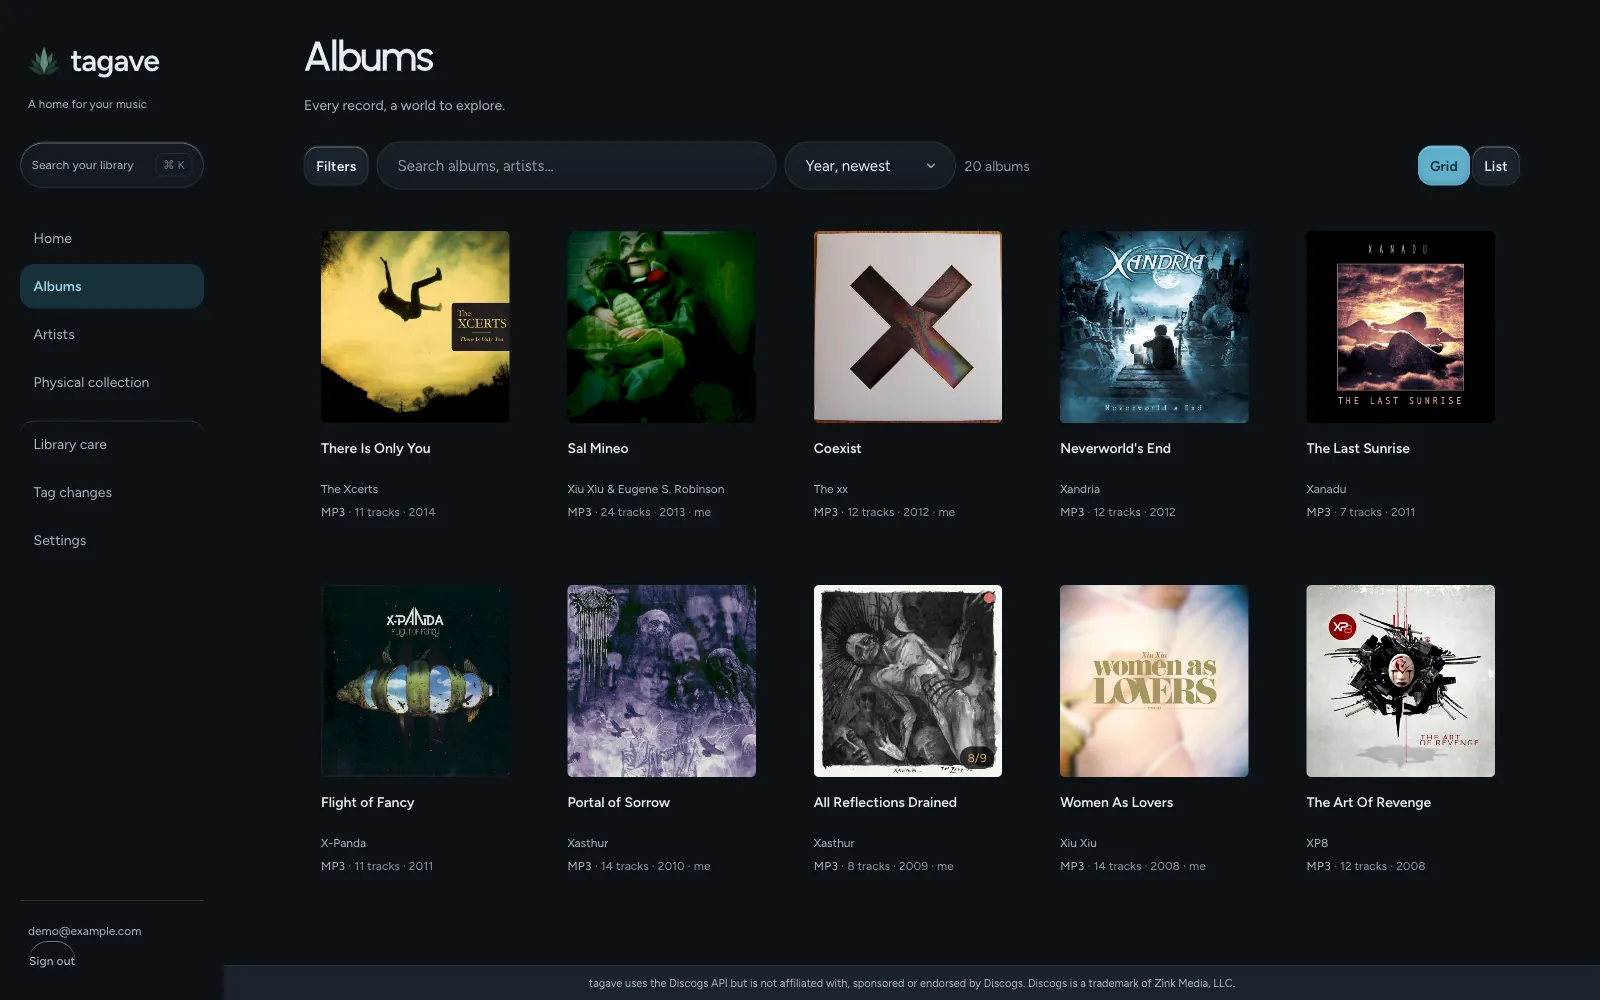
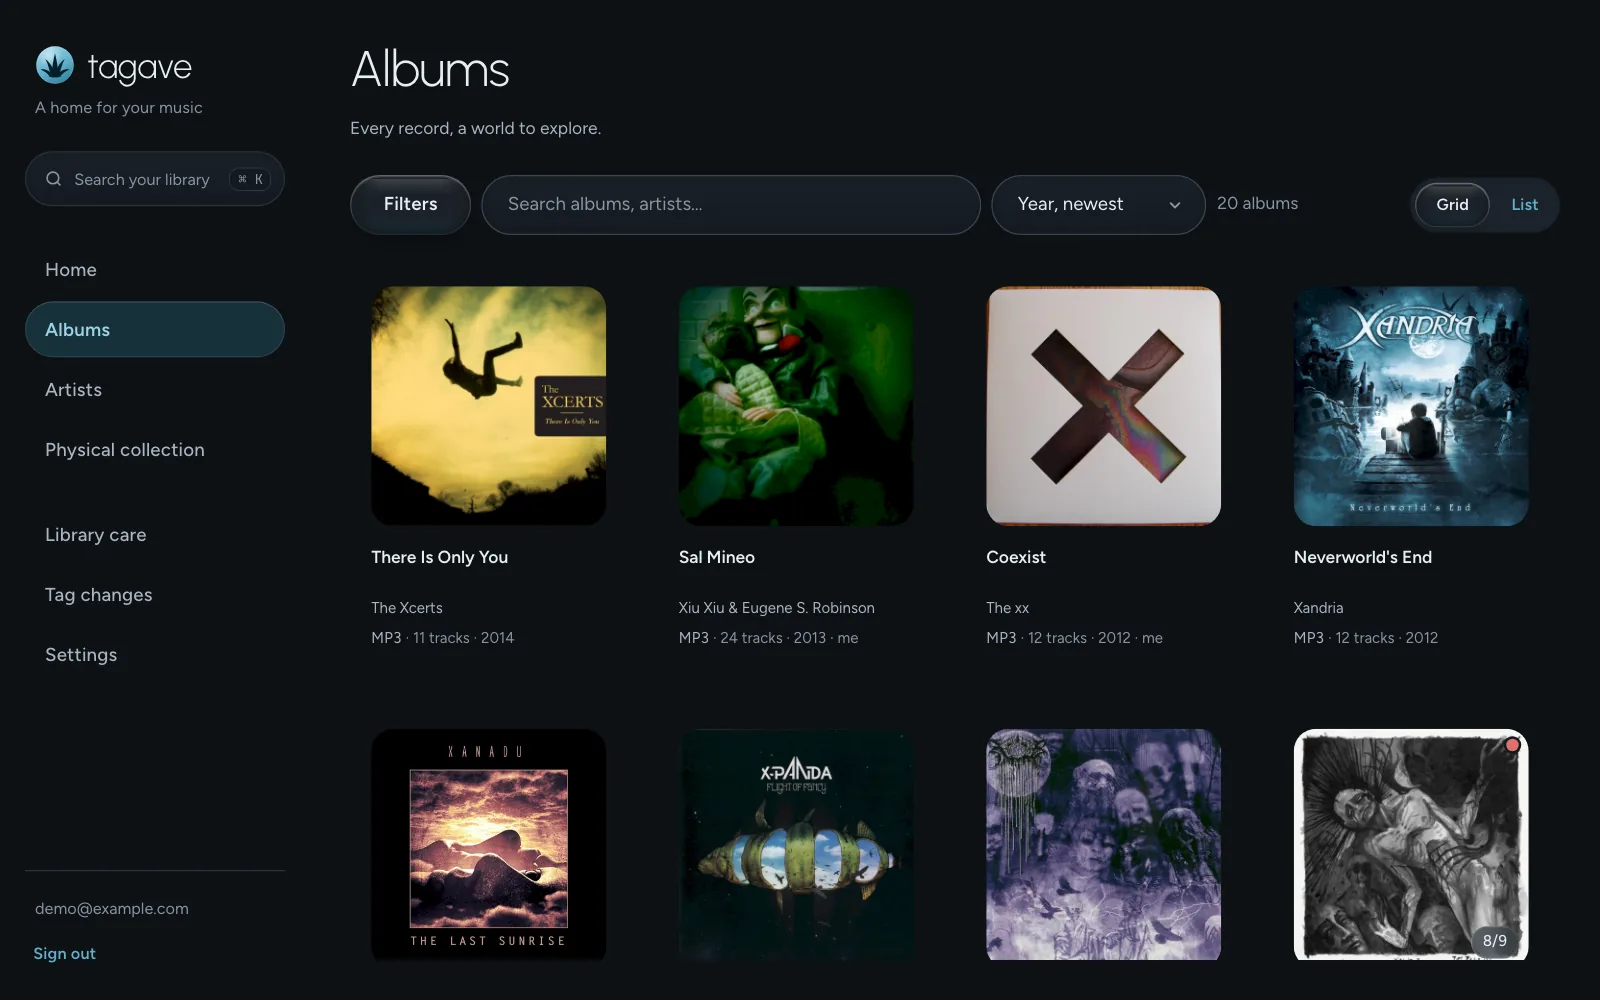
feat(site): new mark, whole install command, large zoomable screenshots
Screenshots retaken from the restyled app (albums, compilation, tag plan,
library care), light and dark, 800/1600.

diff --git a/site/index.html b/site/index.html
@@ -21,6 +21,7 @@
 <meta property="og:image:alt" content="tagave: your library, quietly in order.">
 <meta name="twitter:card" content="summary_large_image">
 
+<link rel="icon" type="image/svg+xml" href="img/mark.svg">
 <link rel="icon" type="image/png" sizes="48x48" href="img/favicon-48.png">
 <link rel="apple-touch-icon" href="img/apple-touch-icon.png">
 
@@ -139,9 +140,8 @@ p code,li code{font-size:.9em;padding:1px 6px;border-radius:6px;background:var(-
 /* ============ nav ============ */
 .nav{display:flex;align-items:center;justify-content:space-between;gap:16px;padding:28px 0}
 .brand{display:flex;align-items:center;gap:10px;font:300 22px/1 var(--font-display);letter-spacing:.02em;color:var(--ink);text-decoration:none}
-.drop{width:18px;height:18px;border-radius:50%;flex:none;
-  background:radial-gradient(circle at 35% 30%, var(--spec) 0 18%, transparent 40%),linear-gradient(160deg,var(--dew-hi),var(--dew-lo));
-  box-shadow:0 2px 6px -2px rgba(var(--shadow-tint),.45)}
+/* the mark: an agave rosette in a dew-glass orb (same drawing as the app and favicon) */
+.mark{width:26px;height:26px;flex:none;filter:drop-shadow(0 2px 4px rgba(var(--shadow-tint),.28))}
 .navlinks{display:flex;gap:28px;align-items:center}
 .navlinks a{color:var(--ink-2);text-decoration:none;font-size:15px}
 .navlinks a:hover{color:var(--ink)}
@@ -170,18 +170,18 @@ p code,li code{font-size:.9em;padding:1px 6px;border-radius:6px;background:var(-
   transition:transform var(--dur) var(--ease-spring),box-shadow 200ms ease,filter 200ms ease;
   -webkit-tap-highlight-color:transparent;
 }
+/* Specular sheen: a soft band that fades out by 30% of the height, above the cap line, so every
+   glyph pixel of the label sits on the body colour (4.5:1 or better). No discrete glint: a small
+   white dot at the top-left read as a rendering bug. */
 .btn::before{
-  content:"";position:absolute;z-index:-1;left:10%;right:10%;top:3px;height:46%;
+  content:"";position:absolute;z-index:-1;left:4%;right:4%;top:2px;height:30%;
   border-radius:var(--r-pill);pointer-events:none;
-  background:linear-gradient(180deg,rgba(255,255,255,var(--b-sheen)),rgba(255,255,255,.04));
+  background:linear-gradient(180deg,rgba(255,255,255,var(--b-sheen)) 0%,rgba(255,255,255,calc(var(--b-sheen)*.35)) 55%,rgba(255,255,255,0) 100%);
+  -webkit-mask-image:linear-gradient(90deg,transparent,#000 22%,#000 78%,transparent);
+  mask-image:linear-gradient(90deg,transparent,#000 22%,#000 78%,transparent);
   transition:opacity 200ms ease;
 }
-.btn::after{
-  content:"";position:absolute;z-index:-1;left:18%;top:7px;width:10px;height:5px;
-  border-radius:50%;background:rgba(255,255,255,.8);filter:blur(.5px);pointer-events:none;
-}
-.btn.sm::after{display:none}
-.btn > *{position:relative}
+.btn > *{position:relative;font-weight:600}
 .btn:hover{
   text-decoration:none;
   transform:translateY(-1px) scale(1.015);
@@ -219,7 +219,7 @@ p code,li code{font-size:.9em;padding:1px 6px;border-radius:6px;background:var(-
 .btn.secondary:active{transform:translateY(1px) scale(.97);box-shadow:inset 0 2px 6px rgba(var(--shadow-tint),.22),inset 0 0 0 1px var(--glass-edge)}
 
 .btn.quiet{--b-ink:var(--dew);background:transparent;border-color:transparent;box-shadow:none;text-shadow:none;padding:0 18px}
-.btn.quiet::before,.btn.quiet::after{opacity:0}
+.btn.quiet::before{opacity:0}
 .btn.quiet:hover{background:color-mix(in srgb,var(--dew) 10%,transparent);transform:none;filter:none;box-shadow:inset 0 1px 0 rgba(255,255,255,.35)}
 .btn.quiet:active{background:color-mix(in srgb,var(--dew) 16%,transparent);box-shadow:inset 0 2px 4px rgba(var(--shadow-tint),.15)}
 
@@ -235,12 +235,10 @@ p code,li code{font-size:.9em;padding:1px 6px;border-radius:6px;background:var(-
   :root:not([data-theme="light"]) .btn{text-shadow:0 1px 0 rgba(255,255,255,.18)}
   :root:not([data-theme="light"]) .btn.secondary,:root:not([data-theme="light"]) .btn.quiet{text-shadow:none}
   :root:not([data-theme="light"]) .btn.secondary{--b-sheen:.16;box-shadow:inset 0 1px 0 rgba(255,255,255,.14),inset 0 -3px 8px rgba(0,0,0,.35),0 10px 22px -14px rgba(0,0,0,.8)}
-  :root:not([data-theme="light"]) .btn.secondary::after{background:rgba(255,255,255,.35)}
 }
 :root[data-theme="dark"] .btn{text-shadow:0 1px 0 rgba(255,255,255,.18)}
 :root[data-theme="dark"] .btn.secondary,:root[data-theme="dark"] .btn.quiet{text-shadow:none}
 :root[data-theme="dark"] .btn.secondary{--b-sheen:.16;box-shadow:inset 0 1px 0 rgba(255,255,255,.14),inset 0 -3px 8px rgba(0,0,0,.35),0 10px 22px -14px rgba(0,0,0,.8)}
-:root[data-theme="dark"] .btn.secondary::after{background:rgba(255,255,255,.35)}
 
 /* theme toggle icon swap */
 .theme-toggle .moon{display:none}
@@ -263,15 +261,16 @@ p code,li code{font-size:.9em;padding:1px 6px;border-radius:6px;background:var(-
 
 /* glass command pill */
 .cmd{display:flex;align-items:center;gap:12px;
-  padding:8px 8px 8px 22px;border-radius:var(--r-pill);
+  padding:10px 10px 10px 22px;border-radius:26px;
   background:var(--glass);border:1px solid var(--glass-edge);
   -webkit-backdrop-filter:blur(var(--glass-blur)) saturate(1.3);backdrop-filter:blur(var(--glass-blur)) saturate(1.3);
   box-shadow:0 1px 0 rgba(255,255,255,.5) inset,0 12px 32px -18px rgba(var(--shadow-tint),.35);text-align:left}
-.cmd code{flex:1;min-width:0;overflow-x:auto;white-space:nowrap;color:var(--ink);font:400 14px/1.5 var(--font-mono);scrollbar-width:none;padding:6px 0}
-.cmd code::-webkit-scrollbar{display:none}
+/* The whole command, wrapped at the URL's slashes when it has to: a hidden scroller cut it off. */
+.cmd code{flex:1;min-width:0;white-space:normal;overflow-wrap:anywhere;color:var(--ink);font:400 13.5px/1.6 var(--font-mono);padding:4px 0}
 .cmd .p{color:var(--ink-3);user-select:none;-webkit-user-select:none}
 .cmd .btn{flex:none;min-width:84px}
-.hero .cmd{margin:48px auto 0;max-width:620px}
+.hero .cmd{margin:48px auto 0;max-width:760px}
+@media (max-width:600px){.cmd{flex-direction:column;align-items:stretch;padding:16px 16px 12px 18px}.cmd .btn{align-self:flex-end}}
 .hero .cmd-note{margin:14px auto 0;font-size:13px;color:var(--ink-3)}
 @supports not ((backdrop-filter: blur(1px)) or (-webkit-backdrop-filter: blur(1px))){
   .cmd{background:var(--surface)} .btn.secondary{background:var(--surface)}
@@ -281,6 +280,14 @@ p code,li code{font-size:.9em;padding:1px 6px;border-radius:6px;background:var(-
 .frame{margin:0;padding:10px;border-radius:var(--r-card);background:var(--surface);border:1px solid var(--line);
   box-shadow:0 1px 0 rgba(255,255,255,.6) inset,0 40px 80px -48px rgba(var(--shadow-tint),.45)}
 .frame img{border-radius:var(--r-cover);width:100%;background:var(--mist)}
+.zoom{display:block;width:100%;padding:0;border:0;background:none;cursor:zoom-in;border-radius:var(--r-cover)}
+.zoom:focus-visible{outline:2px solid var(--ring);outline-offset:4px}
+/* full-size view of a screenshot */
+.lightbox{width:100vw;height:100dvh;max-width:none;max-height:none;margin:0;padding:24px;border:0;background:transparent;display:none}
+.lightbox[open]{display:grid;place-items:center}
+.lightbox::backdrop{background:rgba(8,14,20,.78);-webkit-backdrop-filter:blur(6px);backdrop-filter:blur(6px)}
+.lightbox img{max-width:min(1600px,100%);max-height:calc(100dvh - 96px);width:auto;height:auto;border-radius:var(--r-cover);box-shadow:0 40px 80px -30px rgba(0,0,0,.6);cursor:zoom-out}
+.lightbox .btn{position:fixed;top:16px;right:16px}
 .frame figcaption{font-size:13px;color:var(--ink-3);padding:12px 8px 2px;text-align:left}
 .showcase{padding:8px 0 24px}
 
@@ -297,20 +304,24 @@ section.block .wrap > header .body{margin-top:16px}
 .fgrid h3{font:400 22px/1.3 var(--font-display);margin:0 0 10px}
 @media (max-width:760px){.fgrid{grid-template-columns:1fr;gap:40px}}
 
-.tour{display:grid;gap:96px}
-.row{display:grid;grid-template-columns:5fr 7fr;gap:56px;align-items:center}
-.row.flip{grid-template-columns:7fr 5fr}
-.row.flip .text{order:2}
+/* Each stop of the tour: the words in two columns, then the screenshot at full content width,
+   so the interface is large enough to read. */
+.tour{display:grid;gap:112px}
+.row{display:grid;gap:40px}
+.row .text{display:grid;grid-template-columns:5fr 6fr;gap:16px 56px;align-items:start}
+.row .text .intro{grid-column:1}
+.row .text .ticks{grid-column:2;margin-top:34px}
 .row .headline{margin-top:14px}
 .row .body{margin-top:16px}
-.ticks{list-style:none;padding:0;margin:24px 0 0;display:grid;gap:10px}
+.ticks{list-style:none;padding:0;margin:24px 0 0;display:grid;gap:12px}
 .ticks li{position:relative;padding-left:22px;color:var(--ink-2);font-size:15px}
 .ticks li::before{content:"";position:absolute;left:2px;top:.62em;width:8px;height:8px;border-radius:50%;
   background:radial-gradient(circle at 35% 30%, var(--spec) 0 18%, transparent 45%),linear-gradient(160deg,var(--dew-hi),var(--dew-lo))}
 @media (max-width:860px){
-  .tour{gap:72px}
-  .row,.row.flip{grid-template-columns:1fr;gap:32px}
-  .row.flip .text{order:0}
+  .tour{gap:80px}
+  .row{gap:28px}
+  .row .text{grid-template-columns:1fr}
+  .row .text .ticks{grid-column:1;margin-top:8px}
 }
 
 /* install */
@@ -363,17 +374,42 @@ footer p{margin:0 0 8px;max-width:78ch}
 }
 @media (forced-colors: active){
   .btn{border:2px solid ButtonText;background:ButtonFace;color:ButtonText;forced-color-adjust:none}
-  .btn::before,.btn::after{display:none}
-  .drop,.ticks li::before{forced-color-adjust:none;background:CanvasText}
+  .btn::before{display:none}
+  .ticks li::before{forced-color-adjust:none;background:CanvasText}
 }
 </style>
 </head>
 <body>
+<!-- The mark, drawn once. Its colours are the dew tokens, so it follows the theme like the primary
+     button: a deep drop with a white plant in light, a lit drop with a dark plant in dark. -->
+<svg width="0" height="0" style="position:absolute" aria-hidden="true" focusable="false">
+  <defs>
+    <linearGradient id="mark-body" x1="18" y1="4" x2="46" y2="62" gradientUnits="userSpaceOnUse">
+      <stop offset="0" stop-color="var(--dew-hi)"/><stop offset=".55" stop-color="var(--dew)"/><stop offset="1" stop-color="var(--dew-lo)"/>
+    </linearGradient>
+    <radialGradient id="mark-sheen" cx="23" cy="17" r="20" gradientUnits="userSpaceOnUse">
+      <stop offset="0" stop-color="#fff" stop-opacity=".55"/><stop offset="1" stop-color="#fff" stop-opacity="0"/>
+    </radialGradient>
+    <symbol id="tagave-mark" viewBox="0 0 64 64">
+      <circle cx="32" cy="32" r="30" fill="url(#mark-body)"/>
+      <circle cx="32" cy="32" r="30" fill="url(#mark-sheen)"/>
+      <g fill="var(--dew-ink)">
+        <path d="M26.5 50C27 38 29 25 32 13C35 25 37 38 37.5 50Z"/>
+        <path d="M25 50C23.5 40 21 31 16.5 22.5C24.5 28.5 30 37.5 32.5 50Z"/>
+        <path d="M39 50C40.5 40 43 31 47.5 22.5C39.5 28.5 34 37.5 31.5 50Z"/>
+        <path d="M24 50.5C19.5 45 14.5 41.5 8.8 39.2C17 38 24.5 41.5 30 50.5Z"/>
+        <path d="M40 50.5C44.5 45 49.5 41.5 55.2 39.2C47 38 39.5 41.5 34 50.5Z"/>
+        <path d="M22 49.2Q32 47.6 42 49.2Q41 52 32 52Q23 52 22 49.2Z"/>
+      </g>
+      <circle cx="32" cy="32" r="29.4" fill="none" stroke="var(--rim-a)" stroke-opacity=".6" stroke-width="1.2"/>
+    </symbol>
+  </defs>
+</svg>
 <a class="skip" href="#main">Skip to content</a>
 
 <div class="wrap">
   <nav class="nav" aria-label="Main">
-    <a class="brand" href="./" aria-label="tagave home"><span class="drop" aria-hidden="true"></span>tagave</a>
+    <a class="brand" href="./" aria-label="tagave home"><svg class="mark" viewBox="0 0 64 64" aria-hidden="true"><use href="#tagave-mark"/></svg>tagave</a>
     <div class="navlinks">
       <a class="hide-s" href="#features">Features</a>
       <a class="hide-s" href="#install">Install</a>
@@ -406,12 +442,14 @@ footer p{margin:0 0 8px;max-width:78ch}
 
     <div class="showcase">
       <figure class="frame">
-        <picture>
-          <source data-theme-shot media="(prefers-color-scheme: dark)" srcset="img/albums-dark-800.webp 800w, img/albums-dark-1600.webp 1600w" sizes="(max-width:1080px) calc(100vw - 54px), 1016px">
-          <img src="img/albums-light-1600.webp" srcset="img/albums-light-800.webp 800w, img/albums-light-1600.webp 1600w" sizes="(max-width:1080px) calc(100vw - 54px), 1016px"
-               width="1600" height="1000" alt="The album grid sorted by year, with cover art, artist, format, track count and year under each cover. One album carries a small 8/9 badge because a track is missing." fetchpriority="high">
-        </picture>
-        <figcaption>The album grid. The 8/9 badge marks an album that is one track short.</figcaption>
+          <button class="zoom" type="button" title="See it full size">
+            <picture>
+              <source data-theme-shot media="(prefers-color-scheme: dark)" srcset="img/albums-dark-800.webp 800w, img/albums-dark-1600.webp 1600w" sizes="(max-width:1080px) calc(100vw - 54px), 1016px">
+              <img src="img/albums-light-1600.webp" srcset="img/albums-light-800.webp 800w, img/albums-light-1600.webp 1600w" sizes="(max-width:1080px) calc(100vw - 54px), 1016px"
+                   width="1600" height="1000" fetchpriority="high" alt="The album grid sorted by year, with cover art, artist, format, track count and year under each cover.">
+            </picture>
+          </button>
+        <figcaption>The album grid. Select a screenshot to see it full size.</figcaption>
       </figure>
     </div>
   </div>
@@ -452,9 +490,11 @@ footer p{margin:0 0 8px;max-width:78ch}
       <div class="tour">
         <div class="row">
           <div class="text">
-            <span class="label">Tag plans</span>
-            <h3 class="headline">Every change, before it happens.</h3>
-            <p class="body">A plan lists each file, each field, the value it has now and the value it would get, and why. You apply it when it looks right, or change the policy and preview again.</p>
+            <div class="intro">
+              <span class="label">Tag plans</span>
+              <h3 class="headline">Every change, before it happens.</h3>
+              <p class="body">A plan lists each file, each field, the value it has now and the value it would get, and why. You apply it when it looks right, or change the policy and preview again.</p>
+            </div>
             <ul class="ticks">
               <li>Nothing is written until you apply</li>
               <li>The audio is hashed before and after each write, and a mismatch stops the job</li>
@@ -463,19 +503,47 @@ footer p{margin:0 0 8px;max-width:78ch}
             </ul>
           </div>
           <figure class="frame">
+          <button class="zoom" type="button" title="See it full size">
             <picture>
-              <source data-theme-shot media="(prefers-color-scheme: dark)" srcset="img/plan-dark-800.webp 800w, img/plan-dark-1600.webp 1600w" sizes="(max-width:860px) calc(100vw - 54px), 580px">
-              <img src="img/plan-light-1600.webp" srcset="img/plan-light-800.webp 800w, img/plan-light-1600.webp 1600w" sizes="(max-width:860px) calc(100vw - 54px), 580px"
-                   width="1600" height="860" loading="lazy" decoding="async" alt="A tag plan preview: one file expanded, with each tag field shown as before and after values, such as the title juggernaut becoming Juggernaut and an empty label becoming Infacted Recordings.">
+              <source data-theme-shot media="(prefers-color-scheme: dark)" srcset="img/plan-dark-800.webp 800w, img/plan-dark-1600.webp 1600w" sizes="(max-width:1080px) calc(100vw - 54px), 1016px">
+              <img src="img/plan-light-1600.webp" srcset="img/plan-light-800.webp 800w, img/plan-light-1600.webp 1600w" sizes="(max-width:1080px) calc(100vw - 54px), 1016px"
+                   width="1600" height="1000" loading="lazy" decoding="async" alt="A tag plan preview: one file expanded, with each tag field shown as its value now and the value it would get.">
             </picture>
+          </button>
           </figure>
         </div>
 
-        <div class="row flip">
+        <div class="row">
           <div class="text">
-            <span class="label">Library care</span>
-            <h3 class="headline">See what is missing.</h3>
-            <p class="body">Once albums are identified, tagave can tell which ones are short of tracks, which are duplicated across formats or editions, and which releases by artists you follow are not in the library at all.</p>
+            <div class="intro">
+              <span class="label">Compilations</span>
+              <h3 class="headline">One album again, without moving a file.</h3>
+              <p class="body">A compilation filed one folder per artist turns into a row of one-track albums. tagave notices the pieces that share a title and fit together, treats them as one album, and sets the album values for every track in one previewed plan.</p>
+            </div>
+            <ul class="ticks">
+              <li>Nothing on disk moves, and rescans keep the album together</li>
+              <li>Split it back into its pieces at any time</li>
+              <li>Album artist, title and the compilation flag are set for all tracks at once, after a preview</li>
+            </ul>
+          </div>
+          <figure class="frame">
+          <button class="zoom" type="button" title="See it full size">
+            <picture>
+              <source data-theme-shot media="(prefers-color-scheme: dark)" srcset="img/compilation-dark-800.webp 800w, img/compilation-dark-1600.webp 1600w" sizes="(max-width:1080px) calc(100vw - 54px), 1016px">
+              <img src="img/compilation-light-1600.webp" srcset="img/compilation-light-800.webp 800w, img/compilation-light-1600.webp 1600w" sizes="(max-width:1080px) calc(100vw - 54px), 1016px"
+                   width="1600" height="1000" loading="lazy" decoding="async" alt="An album page for a compilation, offering to treat three albums with the same title as one album, above its track list.">
+            </picture>
+          </button>
+          </figure>
+        </div>
+
+        <div class="row">
+          <div class="text">
+            <div class="intro">
+              <span class="label">Library care</span>
+              <h3 class="headline">See what is missing.</h3>
+              <p class="body">Once albums are identified, tagave can tell which ones are short of tracks, which are duplicated across formats or editions, and which releases by artists you follow are not in the library at all.</p>
+            </div>
             <ul class="ticks">
               <li>Incomplete albums name the missing tracks</li>
               <li>Dismiss a gap once and it stays dismissed</li>
@@ -484,11 +552,13 @@ footer p{margin:0 0 8px;max-width:78ch}
             </ul>
           </div>
           <figure class="frame">
+          <button class="zoom" type="button" title="See it full size">
             <picture>
-              <source data-theme-shot media="(prefers-color-scheme: dark)" srcset="img/gaps-dark-800.webp 800w, img/gaps-dark-1600.webp 1600w" sizes="(max-width:860px) calc(100vw - 54px), 580px">
-              <img src="img/gaps-light-1600.webp" srcset="img/gaps-light-800.webp 800w, img/gaps-light-1600.webp 1600w" sizes="(max-width:860px) calc(100vw - 54px), 580px"
-                   width="1600" height="600" loading="lazy" decoding="async" alt="The Library care page listing incomplete albums, each with the number of tracks present and the titles of the missing ones.">
+              <source data-theme-shot media="(prefers-color-scheme: dark)" srcset="img/gaps-dark-800.webp 800w, img/gaps-dark-1600.webp 1600w" sizes="(max-width:1080px) calc(100vw - 54px), 1016px">
+              <img src="img/gaps-light-1600.webp" srcset="img/gaps-light-800.webp 800w, img/gaps-light-1600.webp 1600w" sizes="(max-width:1080px) calc(100vw - 54px), 1016px"
+                   width="1600" height="720" loading="lazy" decoding="async" alt="The Library care page listing incomplete albums, each with the number of tracks present and the titles of the missing ones.">
             </picture>
+          </button>
           </figure>
         </div>
       </div>
@@ -597,7 +667,7 @@ footer p{margin:0 0 8px;max-width:78ch}
 <footer>
   <div class="wrap">
     <div class="top">
-      <a class="brand" href="./"><span class="drop" aria-hidden="true"></span>tagave</a>
+      <a class="brand" href="./"><svg class="mark" viewBox="0 0 64 64" aria-hidden="true"><use href="#tagave-mark"/></svg>tagave</a>
       <div class="links">
         <a href="https://github.com/xooxoxxo/tagave">GitHub</a>
         <a href="https://github.com/xooxoxxo/tagave/tree/main/docs">Documentation</a>
@@ -606,9 +676,14 @@ footer p{margin:0 0 8px;max-width:78ch}
       </div>
     </div>
     <p>Metadata comes from <a href="https://musicbrainz.org">MusicBrainz</a> and <a href="https://www.discogs.com">Discogs</a>. tagave uses the Discogs API but is not affiliated with, sponsored or endorsed by Discogs. Discogs is a trademark of Zink Media, LLC.</p>
-    <p>Screenshots show a demo library of twenty albums taken from a real archive, with a demo account. Cover art is from the Cover Art Archive and belongs to its owners.</p>
+    <p>Screenshots show a small demo library taken from a real archive, with a demo account. Cover art is from the Cover Art Archive and belongs to its owners.</p>
   </div>
 </footer>
+
+<dialog class="lightbox" id="lightbox" aria-label="Screenshot, full size">
+  <img alt="">
+  <button class="btn secondary sm" type="button" data-close><span>Close</span></button>
+</dialog>
 
 <script>
 (function () {
@@ -635,6 +710,22 @@ footer p{margin:0 0 8px;max-width:78ch}
     root.setAttribute('data-theme', next);
     syncShots();
     try { localStorage.setItem('tagave-theme', next); } catch (e) { /* not persisted */ }
+  });
+
+  /* Screenshots open full size in a modal dialog: Esc, the Close button or a click closes it. */
+  var box = document.getElementById('lightbox');
+  var big = box.querySelector('img');
+  var zooms = document.querySelectorAll('.zoom');
+  for (var z = 0; z < zooms.length; z++) {
+    zooms[z].addEventListener('click', function (ev) {
+      var img = ev.currentTarget.querySelector('img');
+      var src = (img.currentSrc || img.src).replace(/-800\.webp$/, '-1600.webp');
+      big.src = src; big.alt = img.alt;
+      if (box.showModal) box.showModal(); else box.setAttribute('open', '');
+    });
+  }
+  box.addEventListener('click', function (ev) {
+    if (ev.target === box || ev.target === big || ev.target.closest('[data-close]')) box.close();
   });
 
   var buttons = document.querySelectorAll('.copy');

diff --git a/README.md b/README.md
@@ -16,7 +16,7 @@ what it is.
 
 <br />
 
-<img src="docs/images/albums.jpg" alt="The album browser, showing a library of 27,153 albums" />
+<img src="docs/images/albums.jpg" alt="The album grid of a small demo library, sorted by year, with cover art, artist, format, track count and year under each cover" />
 
 <br />
 
